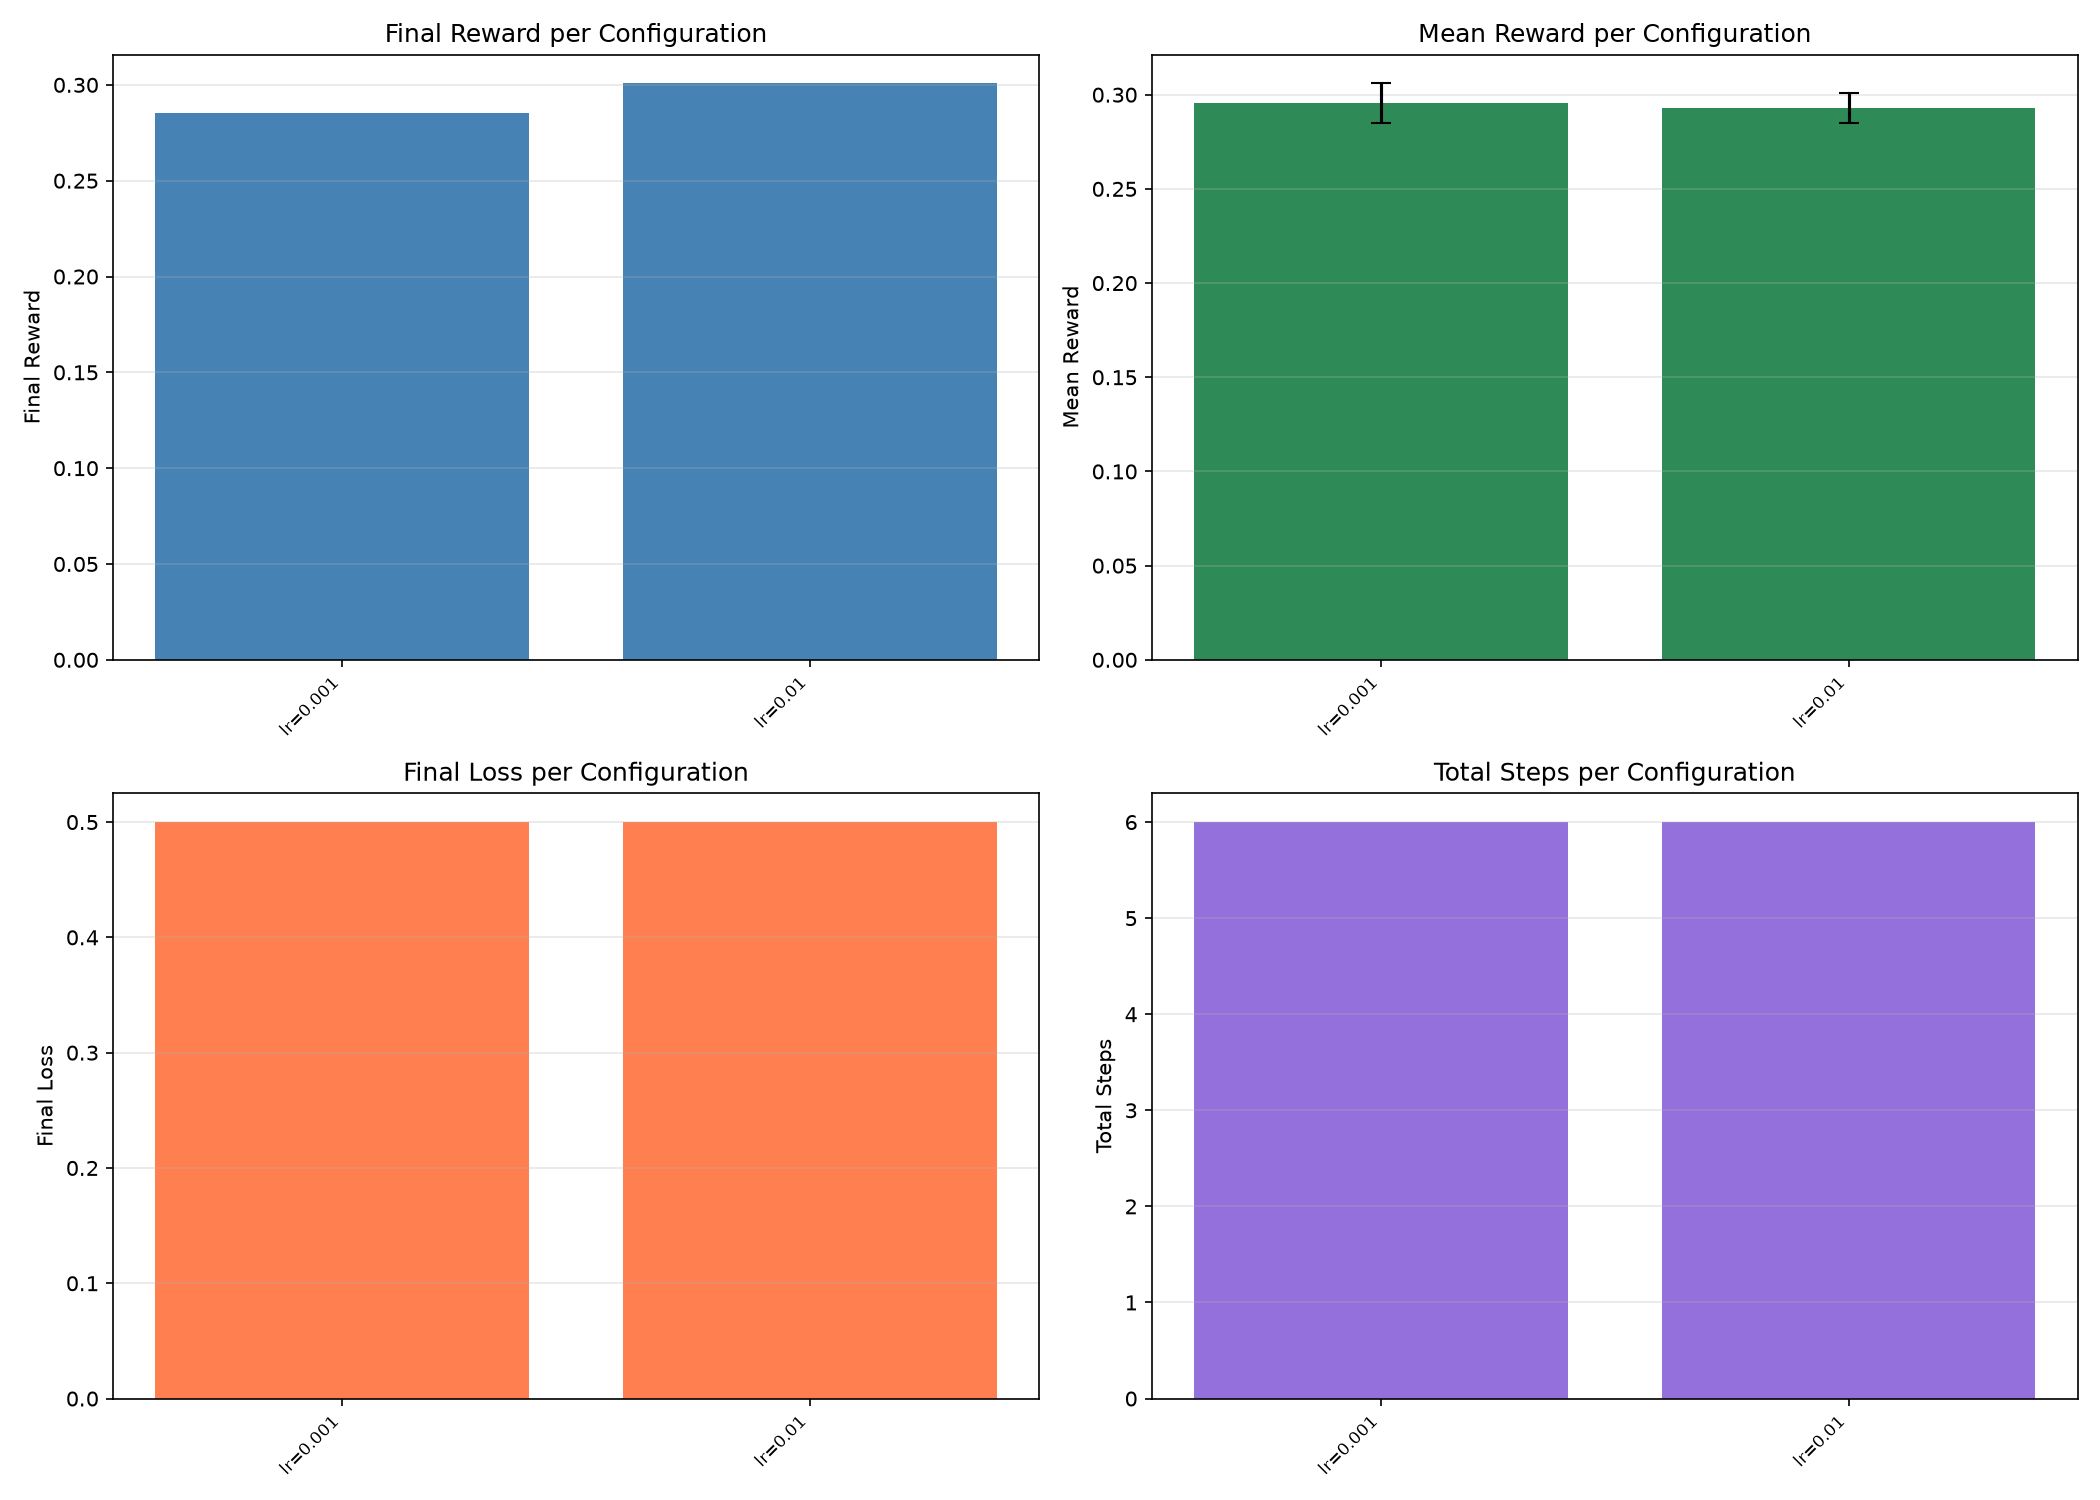
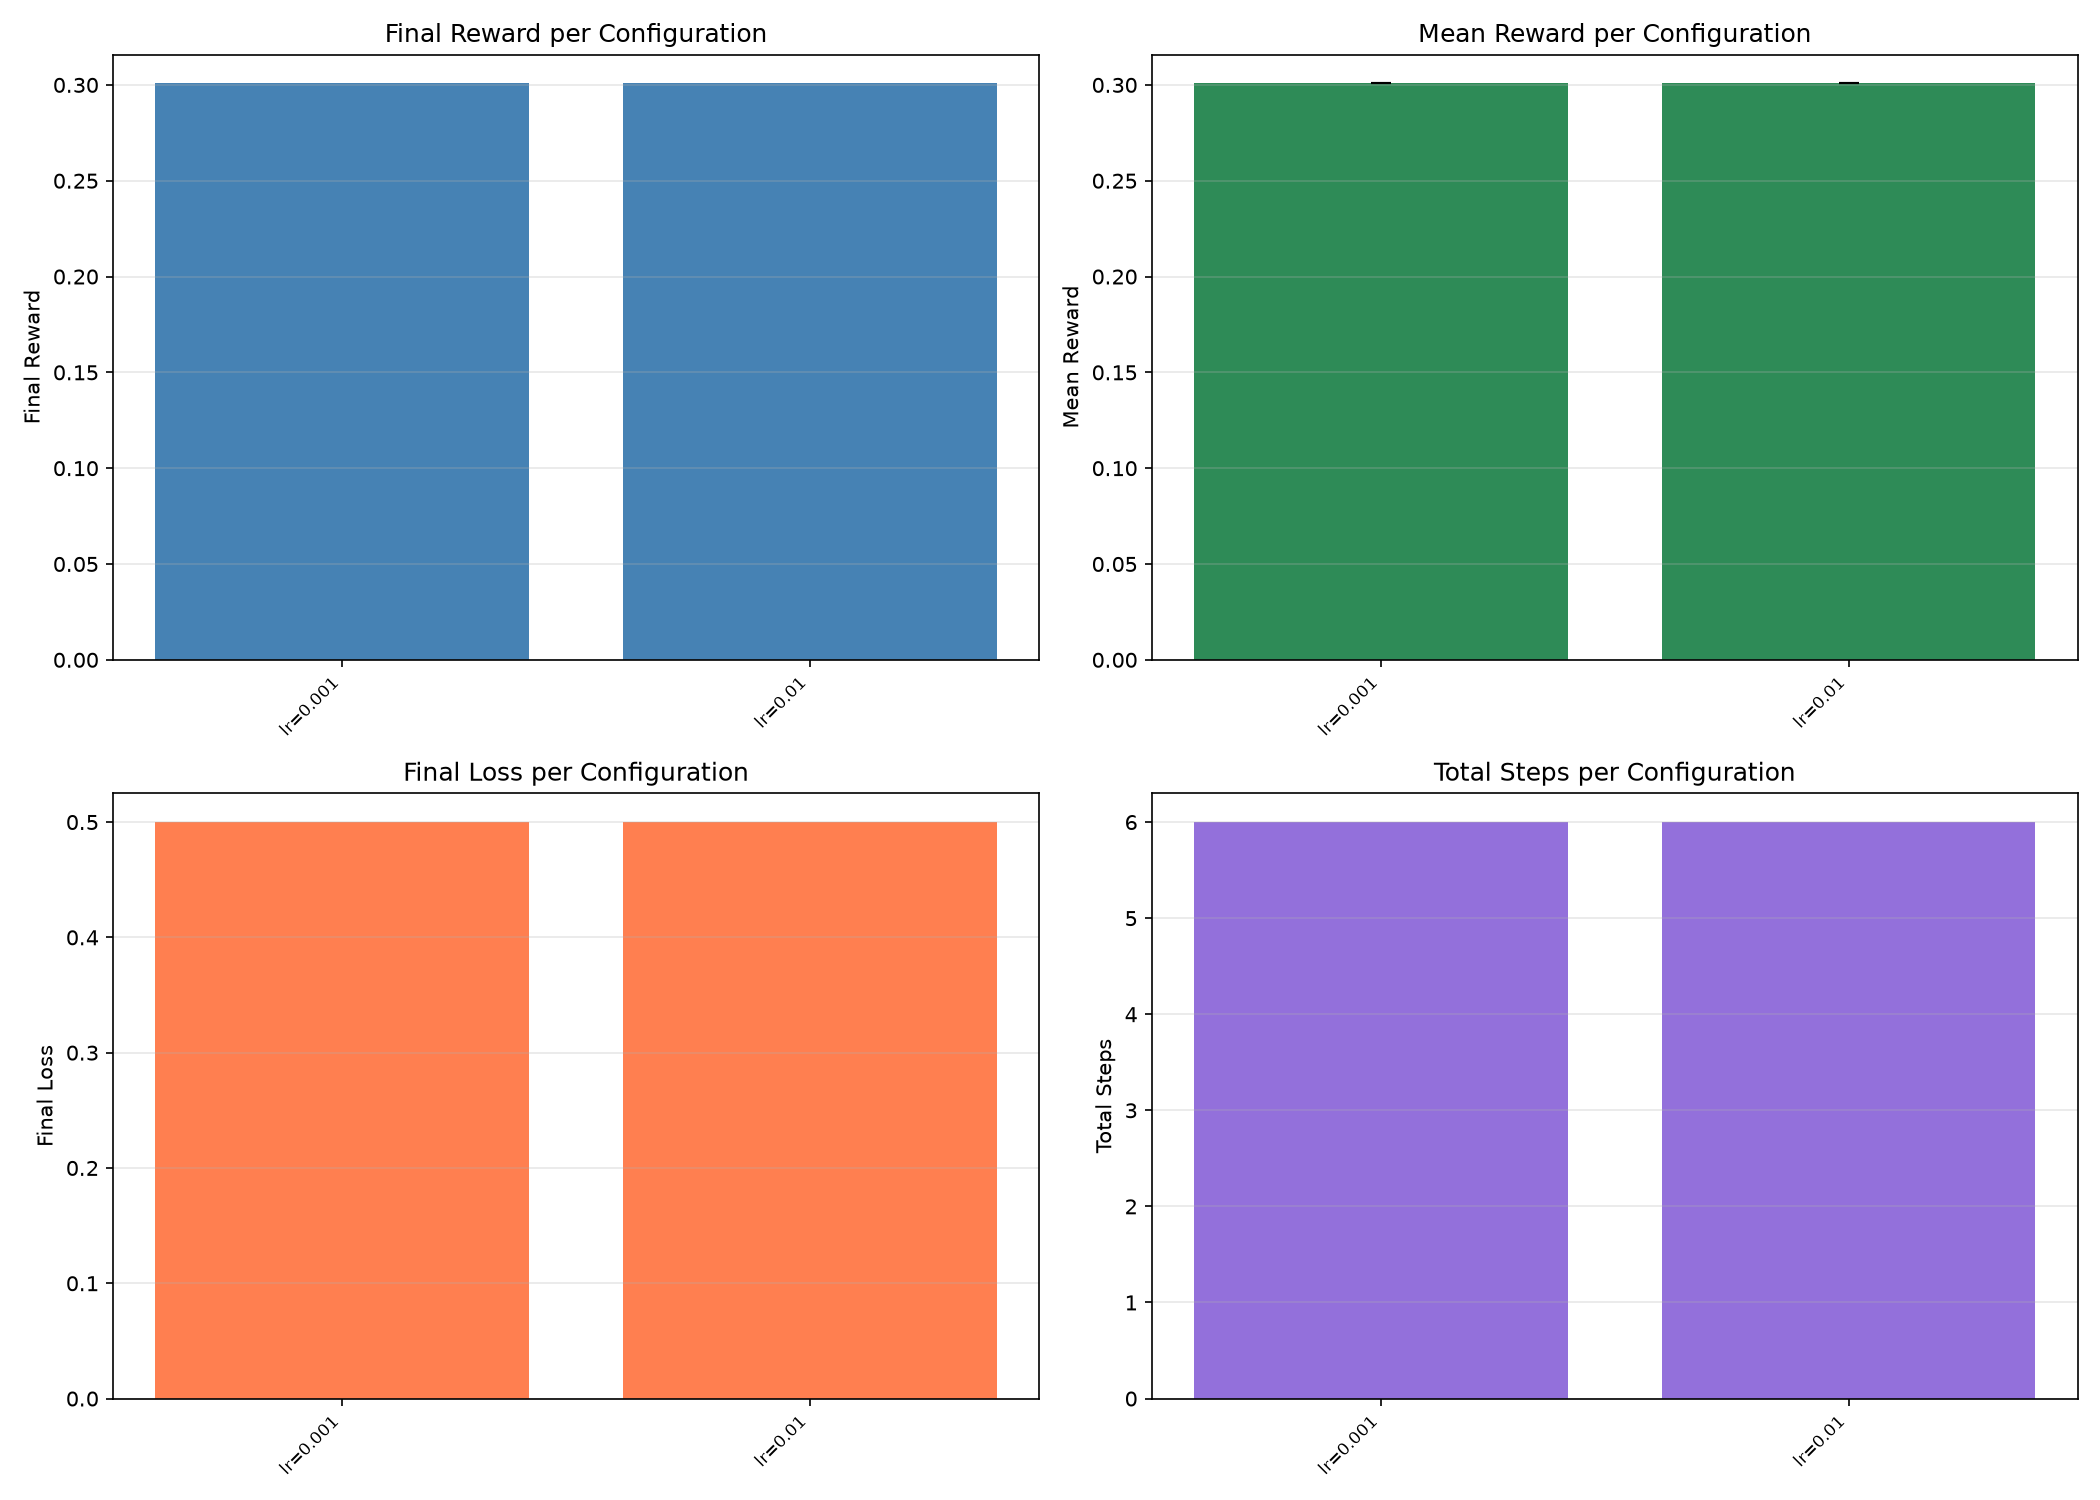
Resolve issue #112: The gif of the trained DQN policy in the readme doesn't move

Changed region(s): [[0.7738, 0.0307, 0.9905, 0.092], [0.5571, 0.0307, 0.7429, 0.092], [0.0619, 0.0307, 0.2476, 0.092]]

diff --git a/tests/test_racing_env.py b/tests/test_racing_env.py
@@ -376,15 +376,14 @@ def test_circular_track_progress_increases_when_moving_forward():
 # ── Goal-distance reward shaping ─────────────────────────────────────
 
 
-def test_reward_includes_goal_distance_shaping():
+def test_reward_includes_progress_shaping():
     env = RacingEnv()
     env.reset(seed=42)
-    gx, gy = env.goal_position
-    prev_dist = np.sqrt((env.state.x - gx) ** 2 + (env.state.y - gy) ** 2)
+    prev_progress = env.current_progress
     _, reward, _, _ = env.step(np.array([0.0, 2.0]))
-    new_dist = np.sqrt((env.state.x - gx) ** 2 + (env.state.y - gy) ** 2)
-    expected_shaping = np.float64(0.5) * (prev_dist - new_dist) / env.track.track_width
-    # Base on-track reward is 0.1; no lap bonus for a single gentle step
+    new_progress = env.current_progress
+    progress_diff = new_progress - prev_progress
+    expected_shaping = np.float64(0.5) * progress_diff
     expected_reward = np.float64(0.1) + expected_shaping
     np.testing.assert_almost_equal(reward, expected_reward, decimal=12)
 
@@ -397,55 +396,55 @@ def test_stationary_action_at_goal_gives_base_reward():
     assert reward == np.float64(0.1), f"Expected 0.1 (no shaping), got {reward}"
 
 
-def test_moving_away_from_goal_gives_lower_reward():
+def test_moving_forward_gives_higher_reward():
     env = RacingEnv(randomize_start=False)
     env.reset(seed=42)
     _, r_zero, _, _ = env.step(np.array([0.0, 0.0]))
     env.reset(seed=42)
-    _, r_away, _, _ = env.step(np.array([0.0, 2.0]))
-    assert r_away < r_zero, (
-        f"Expected reward when moving away ({r_away}) "
-        f"to be lower than stationary ({r_zero})"
+    _, r_forward, _, _ = env.step(np.array([0.0, 2.0]))
+    assert r_forward > r_zero, (
+        f"Expected reward when moving forward ({r_forward}) "
+        f"to be higher than stationary ({r_zero})"
     )
 
 
-def test_higher_reward_when_moving_toward_goal_from_far():
+def test_progress_shaping_rewards_forward_movement():
     env = RacingEnv()
     env.reset(seed=42)
-    _, r_still_at_goal, _, _ = env.step(np.array([0.0, 0.0]))
+    _, r_still, _, _ = env.step(np.array([0.0, 0.0]))
     env.reset(seed=42)
-    env.state = CarState(x=4.0, y=-4.0, heading=np.pi, velocity=2.0)
-    _, r_toward_from_far, _, _ = env.step(np.array([0.0, 2.0]))
-    assert r_toward_from_far > r_still_at_goal, (
-        f"Expected reward when moving toward goal from far ({r_toward_from_far}) "
-        f"to be higher than stationary at goal ({r_still_at_goal})"
+    env.state = CarState(x=2.0, y=-4.0, heading=0.0, velocity=1.0)
+    env.current_progress = env.track.progress_along_centerline(2.0, -4.0)
+    _, r_forward, _, _ = env.step(np.array([0.0, 2.0]))
+    assert r_forward > r_still, (
+        f"Expected reward when moving forward ({r_forward}) "
+        f"to be higher than stationary ({r_still})"
     )
 
 
-def test_toward_goal_higher_than_away_same_position():
+def test_forward_higher_than_backward_same_position():
     env = RacingEnv()
     env.reset(seed=42)
-    gx, gy = env.goal_position
-    env.state = CarState(x=3.0, y=-4.0, heading=np.pi, velocity=1.0)
-    prev_dist = np.sqrt((env.state.x - gx) ** 2 + (env.state.y - gy) ** 2)
-    _, r_toward, _, _ = env.step(np.array([0.0, 2.0]))
-    new_dist_toward = np.sqrt((env.state.x - gx) ** 2 + (env.state.y - gy) ** 2)
+    env.state = CarState(x=2.0, y=-4.0, heading=0.0, velocity=1.0)
+    env.current_progress = env.track.progress_along_centerline(2.0, -4.0)
+    _, r_forward, _, _ = env.step(np.array([0.0, 2.0]))
     env.reset(seed=42)
-    env.state = CarState(x=3.0, y=-4.0, heading=0.0, velocity=1.0)
-    _, r_away, _, _ = env.step(np.array([0.0, 2.0]))
-    assert r_toward > r_away, (
-        f"Expected toward-goal reward ({r_toward}) > away-from-goal reward ({r_away}). "
-        f"Toward delta={prev_dist - new_dist_toward:.4f}"
+    env.state = CarState(x=2.0, y=-4.0, heading=np.pi, velocity=1.0)
+    env.current_progress = env.track.progress_along_centerline(2.0, -4.0)
+    _, r_backward, _, _ = env.step(np.array([0.0, 2.0]))
+    assert r_forward > r_backward, (
+        f"Expected forward reward ({r_forward}) > backward reward ({r_backward})"
     )
 
 
-def test_goal_distance_shaping_magnitude_reasonable():
+def test_progress_shaping_magnitude_reasonable():
     env = RacingEnv()
     env.reset(seed=42)
-    env.state = CarState(x=5.0, y=-4.0, heading=np.pi, velocity=5.0)
+    env.state = CarState(x=2.0, y=-4.0, heading=0.0, velocity=5.0)
+    env.current_progress = env.track.progress_along_centerline(2.0, -4.0)
     _, reward, _, _ = env.step(np.array([0.0, 5.0]))
-    # Shaping bound: max speed * dt = 10 * 0.1 = 1.0 distance per step
-    # max positive shaping = 0.5 * 1.0 / 2.0 = 0.25
+    # Max progress per step at full speed: max_speed * dt / perimeter = 10 * 0.1 / 36 ≈ 0.028
+    # max positive shaping = 0.5 * 0.028 ≈ 0.014
     # on-track bonus = 0.1, so reward < 1.0 (lap bonus threshold)
     assert reward < 1.0, (
         f"Reward {reward} should not dominate existing components; "

diff --git a/src/numpy_rl_racer/env/racing_env.py b/src/numpy_rl_racer/env/racing_env.py
@@ -291,10 +291,7 @@ class RacingEnv:
 
     def step(self, action):
         steering, acceleration = np.float64(action[0]), np.float64(action[1])
-        gx, gy = self.goal_position
-        prev_dist = np.sqrt((self.state.x - gx) ** 2 + (self.state.y - gy) ** 2)
         self.state = self.car.step(self.state, steering, acceleration, self.dt)
-        new_dist = np.sqrt((self.state.x - gx) ** 2 + (self.state.y - gy) ** 2)
         on_track = self.track.is_on_track(self.state.x, self.state.y)
         done = not on_track
 
@@ -310,11 +307,13 @@ class RacingEnv:
         reward = np.float64(0.1 if on_track else -1.0)
         if obstacle_collision:
             reward += np.float64(-1.0)
-        reward += np.float64(0.5) * (prev_dist - new_dist) / self.track.track_width
 
-        if self.current_progress < self.prev_progress - np.float64(0.5):
+        progress_diff = self.current_progress - self.prev_progress
+        if progress_diff < -np.float64(0.5):
+            progress_diff += np.float64(1.0)
             self.lap_count += 1
             reward += np.float64(1.0)
+        reward += np.float64(0.5) * progress_diff
 
         reward -= self.time_penalty * self.dt
 